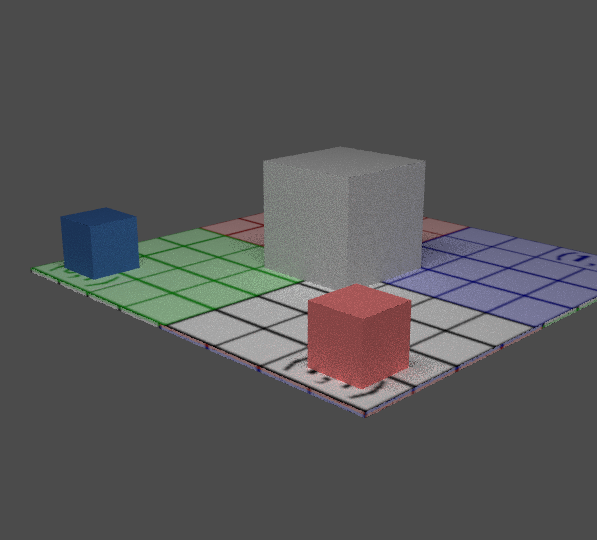
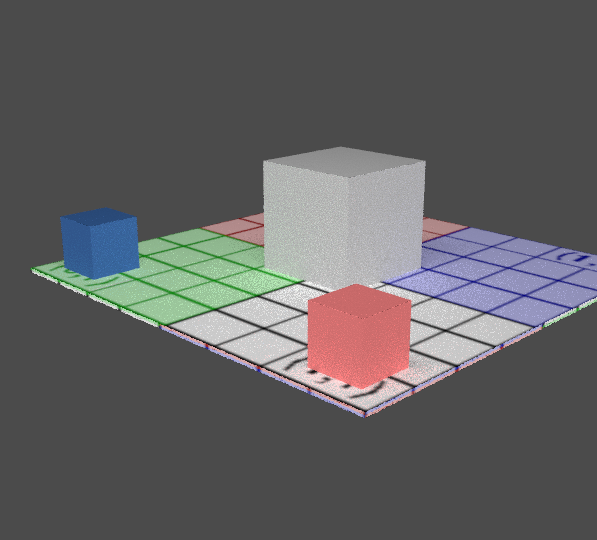
Scale up diffuse and specular components of Prman simple and camera lights (both represented as distant lights) to make behavior of hdPrman more closely match hdStorm behavior in CL 2339566.
(Internal change: 2341876)

Changed region(s): [[0.0603, 0.2667, 1.0, 0.7704]]

diff --git a/pxr/imaging/hdx/taskController.cpp b/pxr/imaging/hdx/taskController.cpp
@@ -902,6 +902,13 @@ HdxTaskController::_SetMaterialNetwork(SdfPath const& pathName,
         node.parameters[HdLightTokens->angle] = DISTANT_LIGHT_ANGLE;
         node.parameters[HdLightTokens->intensity] = DISTANT_LIGHT_INTENSITY;
         node.parameters[HdLightTokens->shadowEnable] = false;
+
+        // We assume that the color specified for these "simple" lights means
+        // that it is the expected color a white Lambertian surface would have
+        // if one of these colored "simple" lights was pointed directly at it.
+        // To achieve this, the light color needs to be scaled appropriately.
+        node.parameters[HdLightTokens->diffuse] = float(M_PI);
+        node.parameters[HdLightTokens->specular] = float(M_PI);
     }
     lightNetwork.nodes.push_back(node);
 
